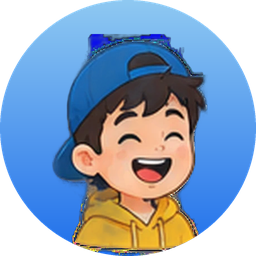
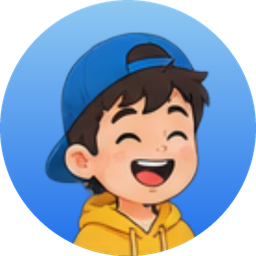
Ganti ikon & gambar game Coret Tebak dengan set aset baru
Aset baru (PNG transparan 2000 px) dioptimalkan ke WebP seukuran
±3x tampilan: 91 MB sumber -> ±0,6 MB yang ikut dikirim. Sumbernya
disimpan di aset-game-sumber/ (masuk .gitignore), bukan di dist/
yang dikosongkan setiap build.

Dipakai di: tombol kepala (speaker + tanda X saat bisu, tautan,
info, pintu keluar / rumah di lobi), lencana checklist & pensil,
mahkota host & juara, medali 1-3, siluet slot kosong, ikon grup,
tambah, gear, piala, api saat waktu kritis, semua pose maskot &
avatar baru, kartu tema (Tas, Tugu, Gudeg, Candi, Becak), dan
lencana +50/+100 untuk bonus tercepat & semua-benar di layar
reveal. Ikon tanpa padanan (alat kanvas, kirim, jam) tetap lucide.

Changed region(s): [[0.1562, 0.125, 0.8438, 1.0]]

diff --git a/src/features/game/komponen/bersama.tsx b/src/features/game/komponen/bersama.tsx
@@ -1,5 +1,5 @@
 import { useState, type CSSProperties, type ReactNode } from "react";
-import { Info, LogOut, Share2, Volume2, VolumeX, X } from "lucide-react";
+import { X } from "lucide-react";
 import { ASET, avatarCadangan } from "../assets";
 import { aturSuara, suaraNyala } from "../suara";
 
@@ -31,7 +31,7 @@ export function Avatar({
       />
       {lencana && (
         <img
-          src={lencana === "benar" ? ASET.ikon.benar : ASET.ikon.gambar}
+          src={lencana === "benar" ? ASET.ui.checklist : ASET.ui.pensil}
           alt={lencana === "benar" ? "Sudah menebak benar" : "Sedang menggambar"}
           className="ct-membal absolute -bottom-1 -right-1 drop-shadow"
           style={{ width: ukuran * 0.45, height: ukuran * 0.45 }}
@@ -44,14 +44,11 @@ export function Avatar({
 export function SlotKosong({ ukuran = 44 }: { ukuran?: number }) {
   return (
     <span
-      className="flex shrink-0 items-center justify-center rounded-full bg-slate-200 text-slate-400"
+      className="flex shrink-0 items-center justify-center rounded-full bg-slate-100"
       style={{ width: ukuran, height: ukuran }}
       aria-hidden="true"
     >
-      <svg viewBox="0 0 24 24" width={ukuran * 0.55} height={ukuran * 0.55} fill="currentColor">
-        <circle cx="12" cy="8" r="4.5" />
-        <path d="M3.5 21c0-4.4 3.8-7.5 8.5-7.5s8.5 3.1 8.5 7.5z" />
-      </svg>
+      <img src={ASET.ui.tamu} alt="" className="object-contain opacity-80" style={{ width: ukuran * 0.6, height: ukuran * 0.6 }} />
     </span>
   );
 }
@@ -63,15 +60,22 @@ function TombolIkon({ onClick, label, children }: { onClick: () => void; label: 
       onClick={onClick}
       aria-label={label}
       title={label}
-      className="flex h-10 w-10 items-center justify-center rounded-full bg-white text-[var(--ct-indigo)] shadow transition active:scale-95"
+      className="relative flex h-10 w-10 items-center justify-center rounded-full bg-white shadow transition active:scale-95"
     >
       {children}
     </button>
   );
 }
 
-/** Bilah atas: logo + suara + bagikan + aturan + keluar. */
-export function Kepala({ onKeluar, linkBagikan }: { onKeluar: () => void; linkBagikan?: string }) {
+function Ikon({ src, redup = false }: { src: string; redup?: boolean }) {
+  return <img src={src} alt="" aria-hidden="true" className={`h-6 w-6 object-contain ${redup ? "opacity-40" : ""}`} />;
+}
+
+/**
+ * Bilah atas: logo + suara + bagikan + aturan + keluar. `keBeranda` = tombol keluar
+ * memakai ikon rumah (di lobi, karena tombolnya kembali ke Beranda aplikasi).
+ */
+export function Kepala({ onKeluar, linkBagikan, keBeranda = false }: { onKeluar: () => void; linkBagikan?: string; keBeranda?: boolean }) {
   const [suara, setSuara] = useState(suaraNyala());
   const [aturan, setAturan] = useState(false);
   const [disalin, setDisalin] = useState(false);
@@ -103,18 +107,19 @@ export function Kepala({ onKeluar, linkBagikan }: { onKeluar: () => void; linkBa
             }}
             label={suara ? "Matikan suara" : "Nyalakan suara"}
           >
-            {suara ? <Volume2 size={19} /> : <VolumeX size={19} />}
+            <Ikon src={ASET.ui.speaker} redup={!suara} />
+            {!suara && <img src={ASET.ui.xMerah} alt="" aria-hidden="true" className="absolute -bottom-0.5 -right-0.5 h-4 w-4" />}
           </TombolIkon>
           {linkBagikan && (
             <TombolIkon onClick={() => void bagikan()} label="Bagikan link room">
-              <Share2 size={18} />
+              <Ikon src={ASET.ui.tautan} />
             </TombolIkon>
           )}
           <TombolIkon onClick={() => setAturan(true)} label="Aturan main">
-            <Info size={19} />
+            <Ikon src={ASET.ui.info} />
           </TombolIkon>
-          <TombolIkon onClick={onKeluar} label="Keluar">
-            <LogOut size={18} />
+          <TombolIkon onClick={onKeluar} label={keBeranda ? "Kembali ke Beranda" : "Keluar"}>
+            <Ikon src={keBeranda ? ASET.ui.rumah : ASET.ui.keluar} />
           </TombolIkon>
         </div>
       </header>

diff --git a/src/features/game/komponen/Podium.tsx b/src/features/game/komponen/Podium.tsx
@@ -1,4 +1,4 @@
-import { useEffect, useMemo, useState, type CSSProperties } from "react";
+import { useEffect, useMemo, useState } from "react";
 import { ASET } from "../assets";
 import { peringkat } from "../logika";
 import { temaById } from "../tema";
@@ -46,7 +46,7 @@ export default function Podium({ s, onKeluar }: { s: StateRoom; onKeluar: () => 
       </div>
 
       <section className="ct-kartu relative overflow-hidden px-2 pb-0 pt-6">
-        <img src={ASET.ornamen.gunungan} alt="" className="absolute right-2 top-2 h-16 w-auto opacity-30" />
+        <img src={ASET.dekorasi.gunungan} alt="" className="absolute right-2 top-2 h-16 w-auto opacity-30" />
         <div className="mx-auto flex max-w-sm items-end justify-center gap-2">
           {BALOK.map((b) => {
             const juara = diBalok(b.posisiKe);
@@ -55,7 +55,7 @@ export default function Podium({ s, onKeluar }: { s: StateRoom; onKeluar: () => 
                 {juara && (
                   <div className="ct-jatuh relative mb-1 flex flex-col items-center" style={{ animationDelay: `${b.tunda + 500}ms` }}>
                     {b.posisiKe === 1 && (
-                      <Mahkota className="ct-mahkota absolute -top-7 z-10 h-8 w-auto" style={{ animationDelay: `${b.tunda + 1100}ms` }} />
+                      <img src={ASET.ui.mahkota} alt="" aria-hidden="true" className="ct-mahkota absolute -top-7 z-10 h-8 w-auto" style={{ animationDelay: `${b.tunda + 1100}ms` }} />
                     )}
                     <Avatar userId={juara.user_id} foto={juara.profiles?.foto_url} nama={juara.profiles?.nama ?? ""} ukuran={b.posisiKe === 1 ? 64 : 52} />
                     <p className="mt-1 max-w-full truncate text-xs font-bold">{juara.profiles?.nama?.split(" ")[0]}</p>
@@ -75,7 +75,9 @@ export default function Podium({ s, onKeluar }: { s: StateRoom; onKeluar: () => 
       </section>
 
       <section className="ct-kartu flex flex-col gap-1 p-3">
-        <h2 className="mb-1 text-sm font-semibold text-slate-500">Skor akhir</h2>
+        <h2 className="mb-1 flex items-center gap-1.5 text-sm font-semibold text-slate-500">
+          <img src={ASET.ui.piala} alt="" aria-hidden="true" className="h-5 w-5" /> Skor akhir
+        </h2>
         {urut.map((p, i) => (
           <div
             key={p.user_id}
@@ -110,19 +112,3 @@ export default function Podium({ s, onKeluar }: { s: StateRoom; onKeluar: () => 
   );
 }
 
-/** Mahkota juara: emas, garis indigo tebal, permata indigo (gaya STYLE LOCK di brief). */
-function Mahkota({ className, style }: { className?: string; style?: CSSProperties }) {
-  return (
-    <svg viewBox="0 0 64 50" className={className} style={style} aria-hidden="true">
-      <g stroke="#1B1F3B" strokeWidth="3" strokeLinejoin="round">
-        <path d="M7 40 L4 15 L19 27 L32 9 L45 27 L60 15 L57 40 Z" fill="#F5B82E" />
-        <rect x="7" y="36" width="50" height="9" rx="3" fill="#E8A21B" />
-        <circle cx="4" cy="13" r="4" fill="#F5B82E" />
-        <circle cx="32" cy="7" r="4" fill="#F5B82E" />
-        <circle cx="60" cy="13" r="4" fill="#F5B82E" />
-        <circle cx="32" cy="27" r="4.5" fill="#2B3A8C" />
-      </g>
-      <path d="M12 20 L14 33" stroke="#FFF6E5" strokeWidth="2.5" strokeLinecap="round" opacity="0.7" />
-    </svg>
-  );
-}

diff --git a/src/features/game/komponen/Reveal.tsx b/src/features/game/komponen/Reveal.tsx
@@ -8,10 +8,18 @@ export default function Reveal({ s }: { s: StateRoom }) {
   const dapatPoin = [...s.aktif].filter((p) => p.poin_giliran > 0).sort((a, b) => b.poin_giliran - a.poin_giliran);
   const adaBenar = s.aktif.some((p) => p.sudah_benar);
 
+  // bonus giliran ini: +50 penebak benar pertama (dari log "benar" setelah log "giliran"
+  // terakhir), +100 penggambar kalau semua penebak benar (poinnya = 50×benar + 100)
+  const awalGiliran = s.log.map((l) => l.jenis).lastIndexOf("giliran");
+  const pertamaId = s.log.slice(awalGiliran + 1).find((l) => l.jenis === "benar" && l.data?.pertama === true)?.user_id;
+  const jumlahBenar = s.aktif.filter((p) => p.sudah_benar && p.user_id !== room.penggambar_id).length;
+  const penggambar = s.aktif.find((p) => p.user_id === room.penggambar_id);
+  const bonusSemua = !!penggambar && jumlahBenar > 0 && penggambar.poin_giliran === 50 * jumlahBenar + 100;
+
   return (
     <div className="flex flex-col items-center gap-3 p-4 text-center">
       {adaBenar && <Konfeti jumlah={30} />}
-      <img src={adaBenar ? ASET.maskot.senang : ASET.wajah.kalah} alt="" className="ct-membal h-28 w-auto" />
+      <img src={adaBenar ? ASET.maskot.senang : ASET.maskot.salah} alt="" className="ct-membal h-28 w-auto" />
       <p className="text-sm font-semibold text-slate-500">Jawabannya adalah</p>
       <p className="ct-judul ct-burst text-3xl uppercase tracking-wide text-[var(--ct-indigo)]">{room.kata_terungkap ?? "—"}</p>
       {!adaBenar && <p className="text-sm text-slate-500">Belum ada yang berhasil menebak.</p>}
@@ -25,8 +33,14 @@ export default function Reveal({ s }: { s: StateRoom }) {
             <Avatar userId={p.user_id} foto={p.profiles?.foto_url} nama={p.profiles?.nama ?? ""} ukuran={30} />
             <span className="flex-1 truncate text-left text-sm font-semibold">
               {p.profiles?.nama}
-              {p.user_id === room.penggambar_id && <span className="font-normal text-slate-400"> (penggambar)</span>}
+              {p.user_id === room.penggambar_id && (
+                <img src={ASET.ui.pensil} alt="penggambar" title="Penggambar" className="ml-1 inline h-4 w-4 align-[-2px]" />
+              )}
             </span>
+            {p.user_id === pertamaId && <img src={ASET.poin.lima_puluh} alt="Bonus tercepat +50" title="Bonus tercepat" className="h-5 w-auto" />}
+            {p.user_id === room.penggambar_id && bonusSemua && (
+              <img src={ASET.poin.seratus} alt="Bonus semua benar +100" title="Bonus semua penebak benar" className="h-5 w-auto" />
+            )}
             <span className="font-bold text-[var(--ct-hijau)]">+{p.poin_giliran}</span>
           </li>
         ))}

diff --git a/src/features/game/assets.ts b/src/features/game/assets.ts
@@ -1,35 +1,45 @@
-// Semua aset game dipotong dari satu lembar "Lembar Aset Game Coret Tebak.png"
-// (latar buram dibuang, jadi WebP transparan). Dibaca lewat satu modul supaya
-// Vite hanya memaketkannya ke chunk game yang dimuat lazy, bukan ke bundel absensi.
+// Aset game dari folder sumber "aset-game-sumber/" (PNG 2000 px, tidak di-commit),
+// dioptimalkan jadi WebP kecil di ./assets. Dibaca lewat satu modul supaya Vite hanya
+// memaketkannya ke chunk game yang dimuat lazy, bukan ke bundel absensi.
 
 const u = (nama: string) => new URL(`./assets/${nama}.webp`, import.meta.url).href;
 
 export const ASET = {
   logo: u("logo"),
   maskot: {
-    berdiri: u("mascot-berdiri"),
-    menunjuk: u("mascot-menunjuk"),
-    senang: u("mascot-senang"),
+    berdiri: u("maskot-berdiri"),
+    melukis: u("maskot-melukis"),
+    menunjuk: u("maskot-menunjuk"),
+    senang: u("maskot-senang"),
+    salah: u("maskot-salah"),
   },
   wajah: {
-    tertawa: u("wajah-tertawa"),
     pikir: u("wajah-pikir"),
-    kalah: u("wajah-kalah"),
+    kaget: u("wajah-kaget"),
   },
   avatar: [u("avatar-01"), u("avatar-02"), u("avatar-03"), u("avatar-04"), u("avatar-05"), u("avatar-06")],
-  ikon: {
-    benar: u("ikon-benar"),
-    gambar: u("ikon-gambar"),
+  ui: {
+    speaker: u("ui-speaker"),
+    info: u("ui-info"),
+    keluar: u("ui-keluar"),
+    tautan: u("ui-tautan"),
+    rumah: u("ui-rumah"),
+    tambah: u("ui-tambah"),
+    grup: u("ui-grup"),
+    mahkota: u("ui-mahkota"),
+    tamu: u("ui-tamu"),
+    pensil: u("ui-pensil"),
+    checklist: u("ui-checklist"),
+    xMerah: u("ui-x-merah"),
+    piala: u("ui-piala"),
+    gear: u("ui-gear"),
   },
-  medali: [u("medali-1"), u("medali-2"), u("medali-3")],
-  tema: { tugu: u("tema-tugu") },
-  item: {
-    ransel: u("item-ransel"),
-    peta: u("item-peta"),
-    makanan: u("item-makanan"),
-    becak: u("item-becak"),
-  },
-  ornamen: { gunungan: u("ornamen-gunungan") },
+  medali: [u("lencana-1"), u("lencana-2"), u("lencana-3")],
+  lencana: { api: u("lencana-api") },
+  poin: { lima_puluh: u("poin-50"), seratus: u("poin-100") },
+  tema: { tugu: u("tema-tugu"), candi: u("tema-candi") },
+  item: { tas: u("item-tas"), gudeg: u("item-gudeg"), becak: u("item-becak") },
+  dekorasi: { gunungan: u("dekorasi-gunungan") },
   latar: { jalan: u("latar-jalan") },
   musik: new URL("./assets/backsound_game.mp3", import.meta.url).href,
 };

diff --git a/src/features/game/komponen/LayarMain.tsx b/src/features/game/komponen/LayarMain.tsx
@@ -1,5 +1,5 @@
 import { useEffect, useMemo, useRef, useState, type FormEvent } from "react";
-import { CheckCircle2, Clock, Pencil, Send } from "lucide-react";
+import { Clock, Send } from "lucide-react";
 import { ASET } from "../assets";
 import { infoRonde, jumlahHuruf, kotakPetunjuk, peringkat } from "../logika";
 import { bunyikan, getar } from "../suara";
@@ -117,7 +117,7 @@ export default function LayarMain({ s }: { s: StateRoom }) {
     <div className="flex flex-col gap-3">
       {/* status giliran + waktu */}
       <div className="ct-kartu flex items-center gap-2 px-3 py-2">
-        <Pencil size={16} className="shrink-0 text-[var(--ct-biru)]" />
+        <img src={ASET.ui.pensil} alt="" aria-hidden="true" className="h-5 w-5 shrink-0" />
         <p className="min-w-0 flex-1 truncate text-sm">
           {room.status === "reveal" ? (
             "Hasil giliran"
@@ -129,7 +129,7 @@ export default function LayarMain({ s }: { s: StateRoom }) {
           <span className="text-slate-400"> · Ronde {ronde.ronde}/{ronde.total}</span>
         </p>
         <span className={`flex items-center gap-1 font-bold tabular-nums ${kritis ? "ct-waktu-kritis text-[var(--ct-merah)]" : ""}`}>
-          <Clock size={15} /> {Math.ceil(sisa)}
+          {kritis ? <img src={ASET.lencana.api} alt="" aria-hidden="true" className="h-5 w-5" /> : <Clock size={15} />} {Math.ceil(sisa)}
         </span>
       </div>
       <div className="-mt-2 h-2 overflow-hidden rounded-full bg-slate-200" aria-hidden="true">
@@ -353,7 +353,7 @@ function StripPemain({ s, urut }: { s: StateRoom; urut: Urut }) {
             <div key={p.user_id} className="flex items-center gap-2 px-1 text-sm">
               <span className="w-5 text-center text-xs text-slate-400">{p.posisi}</span>
               <span className="min-w-0 flex-1 truncate font-semibold">{p.profiles?.nama}</span>
-              {p.sudah_benar && <CheckCircle2 size={15} className="text-[var(--ct-hijau)]" />}
+              {p.sudah_benar && <img src={ASET.ui.checklist} alt="Sudah benar" className="h-4 w-4" />}
               <span className="font-bold tabular-nums">{p.skor}</span>
             </div>
           ))}

diff --git a/src/features/game/komponen/Lobi.tsx b/src/features/game/komponen/Lobi.tsx
@@ -1,6 +1,6 @@
 import { useCallback, useEffect, useState, type FormEvent } from "react";
 import { useNavigate } from "react-router-dom";
-import { Plus, RefreshCw, Users } from "lucide-react";
+import { RefreshCw } from "lucide-react";
 import { ASET } from "../assets";
 import { ambilRoomLobi, gabungRoom, type RoomLobi } from "../api";
 import { temaById } from "../tema";
@@ -51,7 +51,7 @@ export default function Lobi() {
 
   return (
     <div className="flex flex-col gap-4">
-      <Kepala onKeluar={() => navigate("/beranda")} />
+      <Kepala onKeluar={() => navigate("/beranda")} keBeranda />
 
       <section className="ct-kartu relative overflow-hidden">
         <img src={ASET.latar.jalan} alt="" className="absolute inset-0 h-full w-full object-cover opacity-25 blur-[1px]" />
@@ -63,7 +63,7 @@ export default function Lobi() {
               <p className="text-sm text-slate-600">Main bareng rekan kantor, 2–10 pemain.</p>
             </div>
             <button type="button" onClick={() => navigate("/game/baru")} className="ct-tombol w-full">
-              <Plus size={20} /> Buat Room
+              <img src={ASET.ui.tambah} alt="" aria-hidden="true" className="h-6 w-6 rounded-full bg-white" /> Buat Room
             </button>
             <form onSubmit={kirimKode} className="flex gap-2">
               <input
@@ -121,7 +121,7 @@ export default function Lobi() {
                       ))}
                     </div>
                     <span className="ml-1 flex items-center gap-0.5 text-xs text-slate-500">
-                      <Users size={12} /> {r.pemain.length}/{r.maks_pemain}
+                      <img src={ASET.ui.grup} alt="" aria-hidden="true" className="h-3.5 w-auto" /> {r.pemain.length}/{r.maks_pemain}
                     </span>
                   </div>
                 </div>

diff --git a/src/features/game/komponen/RuangTunggu.tsx b/src/features/game/komponen/RuangTunggu.tsx
@@ -1,5 +1,5 @@
 import { useState } from "react";
-import { Copy, Crown, Lock, Globe } from "lucide-react";
+import { Copy, Lock, Globe } from "lucide-react";
 import { ASET } from "../assets";
 import { temaById } from "../tema";
 import type { StateRoom } from "../useRoom";
@@ -70,7 +70,7 @@ export default function RuangTunggu({ s, linkRoom }: { s: StateRoom; linkRoom: s
                 <div className="min-w-0">
                   <p className="flex items-center gap-1 truncate text-sm font-semibold">
                     {p.profiles?.nama ?? "Pemain"}
-                    {p.user_id === room.host_id && <Crown size={13} className="shrink-0 text-[var(--ct-emas)]" aria-label="Host" />}
+                    {p.user_id === room.host_id && <img src={ASET.ui.mahkota} alt="Host" title="Host" className="h-3.5 w-auto shrink-0" />}
                   </p>
                   <p className="text-[11px] text-slate-400">{p.user_id === s.saya ? "Kamu" : on ? "Siap" : "Offline"}</p>
                 </div>

diff --git a/src/features/game/tema.ts b/src/features/game/tema.ts
@@ -11,11 +11,11 @@ export interface Tema {
 
 // id harus sama dengan kolom game_kata.tema di database
 export const DAFTAR_TEMA: Tema[] = [
-  { id: "umum", label: "Umum", gambar: ASET.item.ransel, warna: "#8FC9F2" },
+  { id: "umum", label: "Umum", gambar: ASET.item.tas, warna: "#8FC9F2" },
   { id: "jogja", label: "Jogja", gambar: ASET.tema.tugu, warna: "#FCE7A8" },
-  { id: "kuliner", label: "Kuliner", gambar: ASET.item.makanan, warna: "#F8C9A8" },
+  { id: "kuliner", label: "Kuliner", gambar: ASET.item.gudeg, warna: "#F8C9A8" },
   { id: "hewan", label: "Hewan", emoji: "🐾", warna: "#BFE5CC" },
-  { id: "wisata", label: "Wisata", gambar: ASET.item.peta, warna: "#C7E3F7" },
+  { id: "wisata", label: "Wisata", gambar: ASET.tema.candi, warna: "#C7E3F7" },
   { id: "kantor", label: "Kantor", emoji: "💼", warna: "#E4DFD6" },
   { id: "aktivitas", label: "Aktivitas", gambar: ASET.item.becak, warna: "#F6C3C4" },
 ];

diff --git a/src/features/game/komponen/AturRoom.tsx b/src/features/game/komponen/AturRoom.tsx
@@ -1,6 +1,7 @@
 import { useState, type ReactNode } from "react";
 import { useNavigate } from "react-router-dom";
 import { Globe, Lock, Minus, Plus } from "lucide-react";
+import { ASET } from "../assets";
 import { buatRoom } from "../api";
 import { DAFTAR_TEMA } from "../tema";
 import { Kepala } from "./bersama";
@@ -30,7 +31,9 @@ export default function AturRoom() {
   return (
     <div className="flex flex-col gap-4">
       <Kepala onKeluar={() => navigate("/game")} />
-      <h1 className="ct-judul text-2xl text-[var(--ct-indigo)]">Atur Room</h1>
+      <h1 className="ct-judul flex items-center gap-2 text-2xl text-[var(--ct-indigo)]">
+        <img src={ASET.ui.gear} alt="" aria-hidden="true" className="h-7 w-7" /> Atur Room
+      </h1>
 
       <Bagian judul="Tema kata">
         <div className="grid grid-cols-4 gap-2 sm:grid-cols-7">

diff --git a/src/features/game/komponen/PilihKata.tsx b/src/features/game/komponen/PilihKata.tsx
@@ -15,7 +15,7 @@ export function PilihKata({
 
   return (
     <div className="flex flex-col items-center gap-3 p-4 text-center">
-      <img src={ASET.wajah.pikir} alt="" className="h-20 w-auto" />
+      <img src={ASET.maskot.melukis} alt="" className="ct-napas h-24 w-auto" />
       <p className="ct-judul text-xl text-[var(--ct-indigo)]">Pilih kata untuk digambar</p>
       <p className="text-sm text-slate-500">Dipilihkan acak dalam {Math.ceil(sisa)} detik</p>
       <div className="ct-kartu-kata grid w-full gap-2 sm:grid-cols-3">

diff --git a/src/features/game/GamePage.tsx b/src/features/game/GamePage.tsx
@@ -48,7 +48,7 @@ function GabungLewatLink() {
   if (!error) return <Loading teks="Bergabung ke room..." />;
   return (
     <div className="flex flex-col items-center gap-3 py-16 text-center">
-      <img src={ASET.wajah.kalah} alt="" className="h-32 w-auto" />
+      <img src={ASET.wajah.kaget} alt="" className="h-32 w-auto" />
       <p className="font-semibold">{error}</p>
       <button type="button" onClick={() => navigate("/game", { replace: true })} className="ct-tombol">
         Ke Lobi

diff --git a/src/features/game/komponen/HalamanRoom.tsx b/src/features/game/komponen/HalamanRoom.tsx
@@ -37,7 +37,7 @@ export default function HalamanRoom() {
   if (s.ditutup) {
     return (
       <div className="flex flex-col items-center gap-3 py-16 text-center">
-        <img src={ASET.wajah.kalah} alt="" className="h-32 w-auto" />
+        <img src={ASET.wajah.kaget} alt="" className="h-32 w-auto" />
         <p className="ct-judul text-xl">Room sudah ditutup</p>
         <p className="text-sm text-slate-500">Kembali ke lobi…</p>
       </div>
